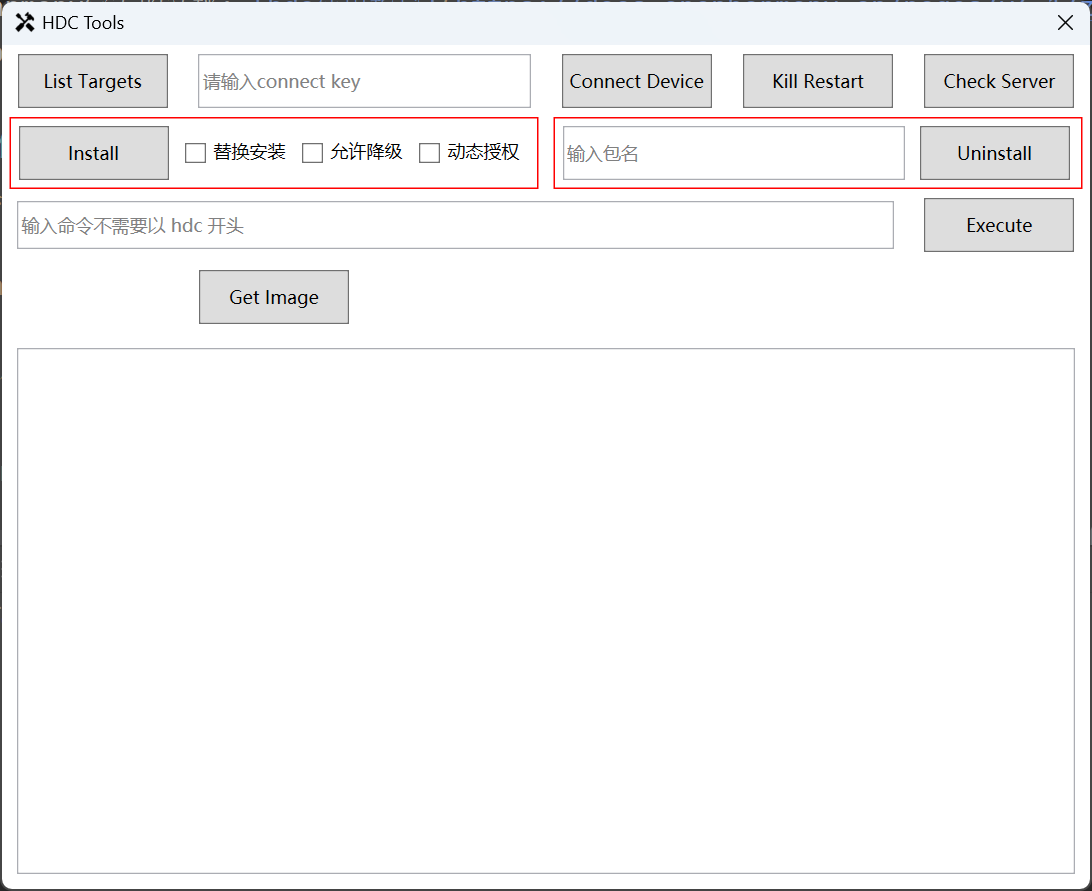
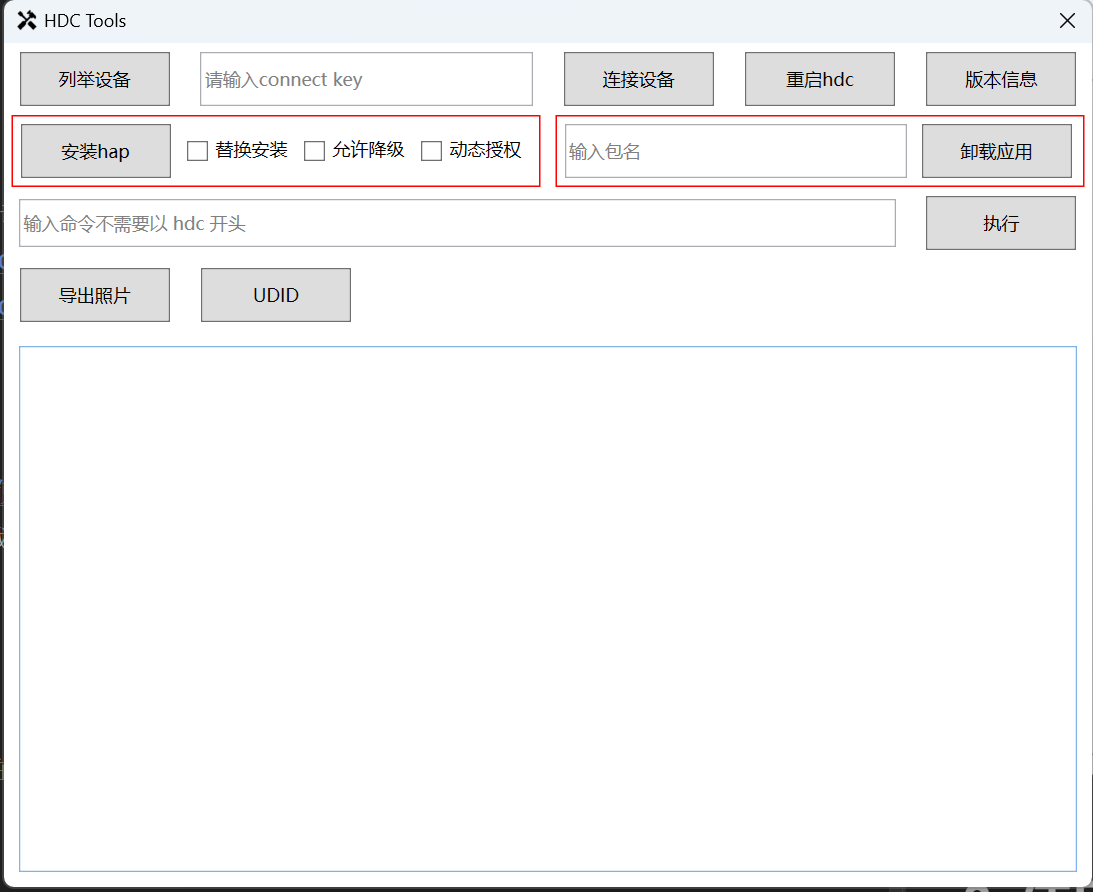
update readme

Changed region(s): [[0.0, 0.0, 1.0, 1.0]]

diff --git a/readme.md b/readme.md
@@ -3,7 +3,18 @@
 
 ## 1. 版本说明
 
-目前支持 hdc 工具的使用,后续会陆续增加其他工具~
+目前支持 hdc 工具的使用,后续会陆续增加其他工具,
+
+hdc功能支持:
+- 枚举设备/连接设备
+- 重启hdc
+- 版本信息显示
+- 安装、卸载应用
+- 导出照片
+- 获取手机的UDID
+- 其他命令的执行（手动输入执行）
+
+下载地址: [Release](/releases)页面下载最新版本。
 
 ![主界面](image/主界面.png)
 
